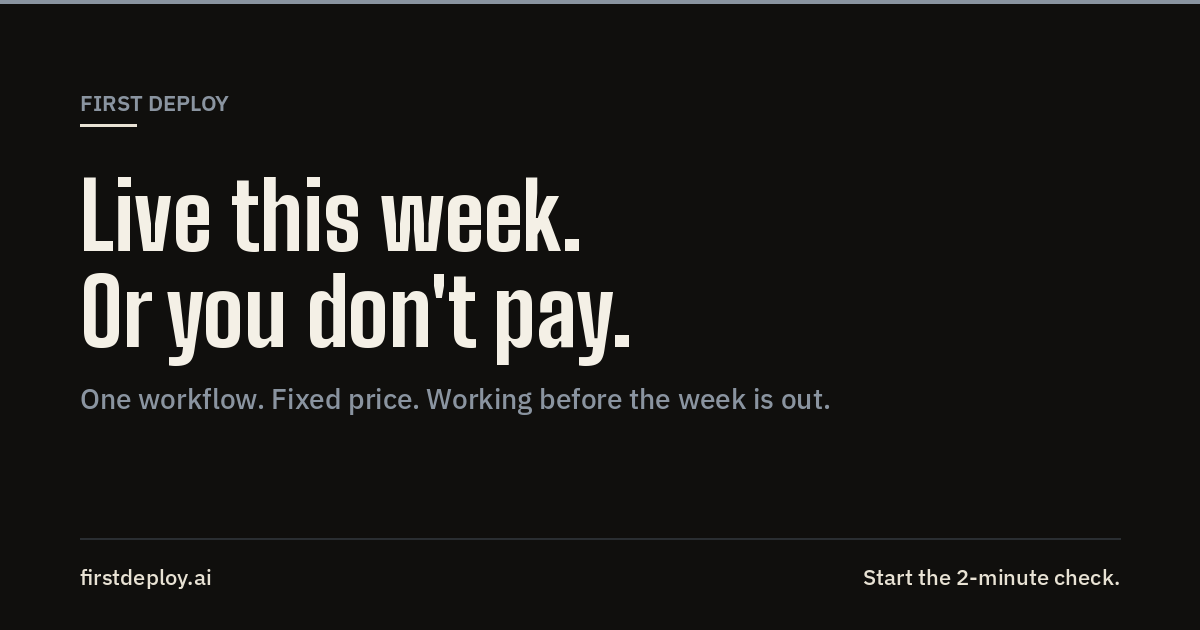
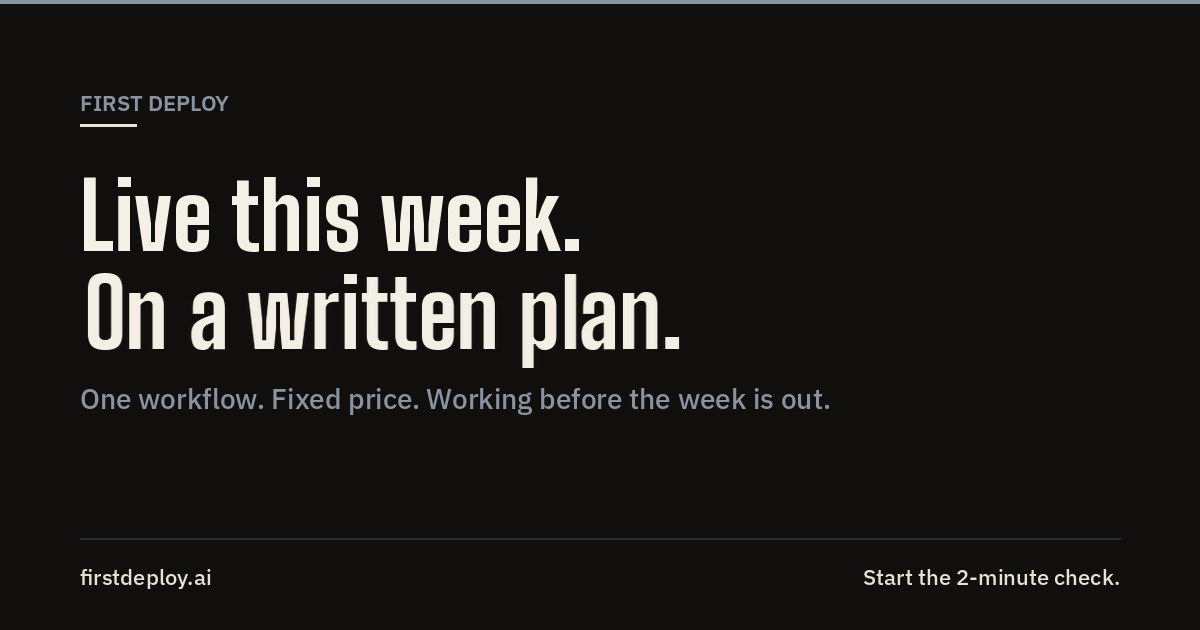
Brand: drop guarantee / risk-reversal copy; state process, timeline and 50% terms (#15)

Changed region(s): [[0.0617, 0.4222, 0.5858, 0.6032]]

diff --git a/index.html b/index.html
@@ -3,22 +3,22 @@
 <head>
 <meta charset="utf-8">
 <meta name="viewport" content="width=device-width, initial-scale=1">
-<title>First Deploy — Factory for after-hours AI. Live this week or you don't pay.</title>
+<title>First Deploy — Factory for after-hours AI. Live this week on a written plan.</title>
 <meta name="description" content="AgentHive Inc's First Deploy: after-hours desk + live apps for operators. Intake → ship → leave it running. Setup $1,500. Then $250/mo. Braid, HillMirror, JobProof, GuyThread, Consult on the same floor.">
 <meta name="theme-color" content="#020617">
 <link rel="canonical" href="https://firstdeploy.ai/">
 <link rel="icon" href="/favicon.svg" type="image/svg+xml">
 <meta property="og:type" content="website">
 <meta property="og:site_name" content="First Deploy">
-<meta property="og:title" content="First Deploy — Live this week. Or you don't pay.">
+<meta property="og:title" content="First Deploy — Live this week. On a written plan.">
 <meta property="og:description" content="After-hours desk + live apps for operators. Factory floor by AgentHive Inc. Setup $1,500. Then $250/mo.">
 <meta property="og:url" content="https://firstdeploy.ai/">
 <meta property="og:image" content="https://firstdeploy.ai/og.png?v=factory-20260922">
 <meta property="og:image:width" content="1200">
 <meta property="og:image:height" content="630">
-<meta property="og:image:alt" content="First Deploy — Live this week. Or you don't pay.">
+<meta property="og:image:alt" content="First Deploy — Live this week. On a written plan.">
 <meta name="twitter:card" content="summary_large_image">
-<meta name="twitter:title" content="First Deploy — Live this week. Or you don't pay.">
+<meta name="twitter:title" content="First Deploy — Live this week. On a written plan.">
 <meta name="twitter:description" content="After-hours desk + live apps for operators. Setup $1,500. Then $250/mo.">
 <meta name="twitter:image" content="https://firstdeploy.ai/og.png?v=factory-20260922">
 <link rel="preconnect" href="https://fonts.googleapis.com">
@@ -56,7 +56,7 @@
         <a class="btn btn-primary" href="/go/start?from=home-hero">Get started — $1,500 setup</a>
         <a class="btn btn-ghost" href="https://calendly.com/coltsinsider/30min">Book a free 30-min call</a>
       </div>
-      <p class="fine">Setup <strong style="color:#f8fafc">$1,500</strong> — live this week or you don't pay. Then <strong style="color:#f8fafc">$250/mo</strong>. <a href="/pricing">See pricing</a> · Call <a href="tel:+13203356186">+1 320-335-6186</a>.</p>
+      <p class="fine">Setup <strong style="color:#f8fafc">$1,500</strong> — live this week on a written plan. Then <strong style="color:#f8fafc">$250/mo</strong>. <a href="/pricing">See pricing</a> · Call <a href="tel:+13203356186">+1 320-335-6186</a>.</p>
     </div>
     <aside class="funnel" style="background-image:linear-gradient(160deg,rgba(2,6,23,.75),rgba(2,6,23,.92)),url(/assets/factory-hero.jpg);background-size:cover;background-position:center" aria-label="Intake funnel">
       <svg viewBox="0 0 480 320" fill="none" xmlns="http://www.w3.org/2000/svg" aria-hidden="true">
@@ -91,7 +91,7 @@
   <div class="wrap">
     <div class="stats" role="group" aria-label="Proof strip">
       <div class="stat"><b>48–72h</b><span>Typical time leak → live</span></div>
-      <div class="stat"><b>$1,500</b><span>Setup. Or you don't pay.</span></div>
+      <div class="stat"><b>$1,500</b><span>Setup. 50% to start.</span></div>
       <div class="stat"><b>$250/mo</b><span>Desk + apps stay on</span></div>
     </div>
   </div>
@@ -175,7 +175,7 @@
         <p>Other shops sell slides. We embed working AI in real ops, then leave it running. The hive is the system: operators, apps, after-hours desk, consult lane — one company.</p>
         <ul class="moat-list">
           <li>Field-first: dirt, plants, shops — not SaaS theater.</li>
-          <li>Live this week or you don't pay the setup.</li>
+          <li>Live this week on the same written plan we run for active client builds.</li>
           <li>Apps on the line (Braid, HillMirror, JobProof, GuyThread) prove the factory is real.</li>
         </ul>
         <p class="fine" style="margin-top:1.25rem"><a href="https://agenthiveinc.com/">AgentHive Inc →</a></p>
@@ -222,7 +222,7 @@
       <div class="price featured">
         <p class="tag" style="color:var(--neon);font-size:.68rem;letter-spacing:.18em;text-transform:uppercase">Setup</p>
         <p class="amt">$1,500</p>
-        <p class="lbl">One leak live this week or you don't pay.</p>
+        <p class="lbl">One leak live this week on a written plan.</p>
         <a class="btn btn-primary" href="/go/start?from=home-price">Get started</a>
       </div>
       <div class="price">
@@ -243,7 +243,7 @@
     <div class="cta-band">
       <p class="eyebrow" style="justify-content:center">Intake open</p>
       <h2>Feed the funnel.</h2>
-      <p>Two minutes. Tell us the leak. If we can light it this week, you get the desk. If we can't, you don't pay setup.</p>
+      <p>Two minutes. Tell us the leak. We scope it, light it this week on a written plan, and leave it running.</p>
       <div class="hero-actions" style="justify-content:center">
         <a class="btn btn-primary" href="/go/start?from=home-check">Get started — $1,500 setup</a>
         <a class="btn btn-ghost" href="https://calendly.com/coltsinsider/30min">Book a free 30-min call</a>

diff --git a/pricing.html b/pricing.html
@@ -4,21 +4,21 @@
 <meta charset="utf-8">
 <meta name="viewport" content="width=device-width, initial-scale=1">
 <title>First Deploy pricing — $1,500 setup, then $250/mo</title>
-<meta name="description" content="First Deploy pricing: $1,500 one-time setup (live this week or you don't pay), then $250/month per company for the after-hours desk and apps.">
+<meta name="description" content="First Deploy pricing: $1,500 one-time setup (live this week on a written plan), then $250/month per company for the after-hours desk and apps.">
 <meta name="theme-color" content="#020617">
 <link rel="canonical" href="https://firstdeploy.ai/pricing">
 <link rel="icon" href="/favicon.svg" type="image/svg+xml">
 <meta property="og:type" content="website">
 <meta property="og:site_name" content="First Deploy">
-<meta property="og:title" content="First Deploy — Live this week. Or you don't pay.">
+<meta property="og:title" content="First Deploy — Live this week. On a written plan.">
 <meta property="og:description" content="After-hours desk + live apps for operators. Factory floor by AgentHive Inc. Setup $1,500. Then $250/mo.">
 <meta property="og:url" content="https://firstdeploy.ai/pricing">
 <meta property="og:image" content="https://firstdeploy.ai/og.png?v=factory-20260922">
 <meta property="og:image:width" content="1200">
 <meta property="og:image:height" content="630">
-<meta property="og:image:alt" content="First Deploy — Live this week. Or you don't pay.">
+<meta property="og:image:alt" content="First Deploy — Live this week. On a written plan.">
 <meta name="twitter:card" content="summary_large_image">
-<meta name="twitter:title" content="First Deploy — Live this week. Or you don't pay.">
+<meta name="twitter:title" content="First Deploy — Live this week. On a written plan.">
 <meta name="twitter:description" content="After-hours desk + live apps for operators. Setup $1,500. Then $250/mo.">
 <meta name="twitter:image" content="https://firstdeploy.ai/og.png?v=factory-20260922">
 <link rel="preconnect" href="https://fonts.googleapis.com">
@@ -51,13 +51,13 @@
     <div class="section-head">
       <p class="eyebrow">Pricing</p>
       <h1>$1,500 setup. Then $250/mo.</h1>
-      <p>One leak live this week or you don't pay setup. Then the desk and apps stay on for $250 a month per company. Cancel any time and the line goes dark.</p>
+      <p>One leak live this week on a written plan. Setup terms: 50% to start, the balance at completion or split over two monthly payments. Then the desk and apps stay on for $250 a month per company. Cancel any time and the line goes dark.</p>
     </div>
     <div class="price-grid">
       <div class="price featured">
         <p class="tag" style="color:var(--neon);font-size:.68rem;letter-spacing:.18em;text-transform:uppercase">Setup · one time</p>
         <p class="amt">$1,500</p>
-        <p class="lbl">Charged on your first invoice. One leak live this week or you don't pay.</p>
+        <p class="lbl">50% to start, the balance at completion or split over two monthly payments.</p>
       </div>
       <div class="price featured">
         <p class="tag" style="color:var(--neon);font-size:.68rem;letter-spacing:.18em;text-transform:uppercase">Desk · monthly</p>

diff --git a/firstdeploy/index.html b/firstdeploy/index.html
@@ -21,12 +21,12 @@
 <meta property="og:image:type" content="image/png">
 <meta property="og:image:width" content="1200">
 <meta property="og:image:height" content="630">
-<meta property="og:image:alt" content="First Deploy — Live this week. Or you don't pay.">
+<meta property="og:image:alt" content="First Deploy — Live this week. On a written plan.">
 <meta name="twitter:card" content="summary_large_image">
 <meta name="twitter:title" content="First Deploy — The after-hours desk and live apps for field operators.">
 <meta name="twitter:description" content="You run dirt, plants, or a shop. An after-hours voice line, the live apps your people open, one operator. Setup $1,500. Then $250/month.">
 <meta name="twitter:image" content="https://firstdeploy.ai/og.png?v=20260915">
-<meta name="twitter:image:alt" content="First Deploy — Live this week. Or you don't pay.">
+<meta name="twitter:image:alt" content="First Deploy — Live this week. On a written plan.">
 <link rel="preconnect" href="https://fonts.googleapis.com">
 <link rel="preconnect" href="https://fonts.gstatic.com" crossorigin>
 <link href="https://fonts.googleapis.com/css2?family=Big+Shoulders+Display:wght@700;800&family=IBM+Plex+Sans:wght@400;500;600&display=swap" rel="stylesheet">
@@ -127,7 +127,7 @@
 
       <div class="price">
         <p class="eyebrow">Price</p>
-        <p><strong>Setup: $1,500.</strong> Live this week or you don’t pay.</p>
+        <p><strong>Setup: $1,500.</strong> Live this week on a written plan. 50% to start, the balance at completion or split over two monthly payments.</p>
         <p><strong>Then $250/month</strong> per company to keep the desk and the apps on. Turn it off and the line goes dark. That’s the point.</p>
       </div>
 
@@ -142,7 +142,7 @@
   <section class="leaks" id="check">
     <div class="page">
       <h2 class="check-title">2-minute check</h2>
-      <p class="lead">Pick the leak. Setup is $1,500 — live this week or you don’t pay.</p>
+      <p class="lead">Pick the leak. Setup is $1,500 — live this week on a written plan.</p>
       <div class="leak-grid">
         <a class="leak" href="https://firstdeploy-quiz.netlify.app">
           <span class="rule" aria-hidden="true"></span>
@@ -166,7 +166,7 @@
   <section class="band" id="how">
     <div class="page">
       <h2>One operator. One workflow. Live in 48–72 hours.</h2>
-      <p class="lead">Done-for-you embed. We already did this inside a live operation. You keep the workflow. If it isn’t live this week, you don’t pay.</p>
+      <p class="lead">Done-for-you embed. We already did this inside a live operation. You keep the workflow. Every build runs on a written plan, the same process as our active client builds.</p>
       <ol class="how">
         <li>
           <span class="n">01</span>

diff --git a/thanks.html b/thanks.html
@@ -11,15 +11,15 @@
 <link rel="icon" href="/favicon.svg" type="image/svg+xml">
 <meta property="og:type" content="website">
 <meta property="og:site_name" content="First Deploy">
-<meta property="og:title" content="First Deploy — Live this week. Or you don't pay.">
+<meta property="og:title" content="First Deploy — Live this week. On a written plan.">
 <meta property="og:description" content="After-hours desk + live apps for operators. Factory floor by AgentHive Inc. Setup $1,500. Then $250/mo.">
 <meta property="og:url" content="https://firstdeploy.ai/thanks">
 <meta property="og:image" content="https://firstdeploy.ai/og.png?v=factory-20260922">
 <meta property="og:image:width" content="1200">
 <meta property="og:image:height" content="630">
-<meta property="og:image:alt" content="First Deploy — Live this week. Or you don't pay.">
+<meta property="og:image:alt" content="First Deploy — Live this week. On a written plan.">
 <meta name="twitter:card" content="summary_large_image">
-<meta name="twitter:title" content="First Deploy — Live this week. Or you don't pay.">
+<meta name="twitter:title" content="First Deploy — Live this week. On a written plan.">
 <meta name="twitter:description" content="After-hours desk + live apps for operators. Setup $1,500. Then $250/mo.">
 <meta name="twitter:image" content="https://firstdeploy.ai/og.png?v=factory-20260922">
 <link rel="preconnect" href="https://fonts.googleapis.com">

diff --git a/about.html b/about.html
@@ -78,7 +78,7 @@
     <section class="legal" id="about">
       <p class="eyebrow">About</p>
       <h1>First Deploy</h1>
-      <p>First Deploy is the after-hours desk and live apps for field operators, built by AgentHive Inc. You get a voice line that books work after hours, the live apps your people open, and one operator. Setup is $1,500 — live this week or you do not pay — then $250/month.</p>
+      <p>First Deploy is the after-hours desk and live apps for field operators, built by AgentHive Inc. You get a voice line that books work after hours, the live apps your people open, and one operator. Setup is $1,500 — live this week on a written plan — then $250/month.</p>
       <p>AgentHive Inc is a Palm Coast, Florida shop. Daniel Graham embeds working AI in real operations — prompts, stack, and hard code — then leaves it running. First Deploy is the product. Consulting is how you buy time in the room. One operator who did this inside a live field operation. Never a pile of single-feature toys.</p>
 
       <h2>Contact</h2>

diff --git a/firstdeploy/terms.html b/firstdeploy/terms.html
@@ -58,7 +58,7 @@
       <p>These terms cover work sold from firstdeploy.ai by AgentHive Inc (Palm Coast, Florida). A signed scope or Stripe checkout wins if it conflicts with this page.</p>
 
       <h2>First Deploy (the product)</h2>
-      <p>Setup is $1,500. The agreed leak live this week or you do not pay that setup. Then $250 per month per company to keep the desk and the apps on. Turn the month off and the line goes dark.</p>
+      <p>Setup is $1,500. Terms: 50% to start, the balance at completion or split over two monthly payments. The agreed leak goes live this week on a written plan. Projects scoped at 90 days are billed half upfront and half at completion. Then $250 per month per company to keep the desk and the apps on. Turn the month off and the line goes dark.</p>
 
       <h2>Consult time</h2>
       <p>The door is a free 30-minute qualifier. Paid time is $75 / 30 minutes, $150 / hour, or a 10-hour pack at $1,250 with $625 due up front. The free 30 is to see if there is paid work. It is not a deliverable sprint.</p>

diff --git a/terms.html b/terms.html
@@ -58,7 +58,7 @@
       <p>These terms cover work sold from firstdeploy.ai by AgentHive Inc (Palm Coast, Florida). A signed scope or Stripe checkout wins if it conflicts with this page.</p>
 
       <h2>First Deploy (the product)</h2>
-      <p>Setup is $1,500. One agreed leak live this week or you do not pay that setup. Then $250 per month per company to keep the desk and the apps on. Turn the month off and the line goes dark.</p>
+      <p>Setup is $1,500. Terms: 50% to start, the balance at completion or split over two monthly payments. The agreed leak goes live this week on a written plan. Projects scoped at 90 days are billed half upfront and half at completion. Then $250 per month per company to keep the desk and the apps on. Turn the month off and the line goes dark.</p>
 
       <h2>Consult time</h2>
       <p>The door is a free 30-minute qualifier. Paid time is $75 / 30 minutes, $150 / hour, or a 10-hour pack at $1,250 with $625 due up front. The free 30 is to see if there is paid work. It is not a deliverable sprint.</p>

diff --git a/firstdeploy/about.html b/firstdeploy/about.html
@@ -78,7 +78,7 @@
     <section class="legal" id="about">
       <p class="eyebrow">About</p>
       <h1>First Deploy</h1>
-      <p>First Deploy is the after-hours desk and live apps for field operators, built by AgentHive Inc. You get a voice line that books work after hours, the live apps your people open, and one operator. Setup is $1,500 — live this week or you do not pay — then $250/month.</p>
+      <p>First Deploy is the after-hours desk and live apps for field operators, built by AgentHive Inc. You get a voice line that books work after hours, the live apps your people open, and one operator. Setup is $1,500 — live this week on a written plan — then $250/month.</p>
       <p>AgentHive Inc is a Palm Coast, Florida shop. Daniel Graham embeds working AI in real operations — prompts, stack, and hard code — then leaves it running. First Deploy is the product. Consulting is how you buy time in the room. One operator who did this inside a live field operation.</p>
 
       <h2>Contact</h2>

diff --git a/firstdeploy/thanks.html b/firstdeploy/thanks.html
@@ -42,7 +42,7 @@
     <section class="hero" id="thanks">
       <p class="eyebrow">Thanks</p>
       <h1>We have it.</h1>
-      <p class="sub">If you booked time, the calendar invite is next. If you called, we will call back. The offer stays the same: setup $1,500 — live this week or you don’t pay — then $250/month.</p>
+      <p class="sub">If you booked time, the calendar invite is next. If you called, we will call back. The offer stays the same: setup $1,500 (50% to start, the balance at completion or split over two monthly payments), then $250/month.</p>
       <div class="cta-block">
         <a class="btn" href="/">Back to First Deploy</a>
         <a class="btn-ghost" href="tel:+13203356186">+1 320-335-6186</a>

diff --git a/README.md b/README.md
@@ -2,7 +2,7 @@
 
 Marketing site for https://firstdeploy.ai
 
-**Clean publish tree:** [`firstdeploy/`](firstdeploy/). One offer page. Setup $1,500 (live this week or they don’t pay), then $250/month. Consult on `/consult`. Sister sites only on `/hive`.
+**Clean publish tree:** [`firstdeploy/`](firstdeploy/). One offer page. Setup $1,500 (live this week on a written plan), then $250/month. Consult on `/consult`. Sister sites only on `/hive`.
 
 ```bash
 node firstdeploy/scripts/check-clean.mjs

diff --git a/firstdeploy/README.md b/firstdeploy/README.md
@@ -8,7 +8,7 @@ Netlify site `first-deploy-ai` (id `59a673be-0880-43e0-a443-756e22cbf4ec`).
 
 After-hours voice + live apps + one operator.
 
-- Setup **$1,500** — live this week or they don’t pay
+- Setup **$1,500** — live this week on a written plan
 - Then **$250/month**
 - Consult lives on `/consult`
 - Sister sites listed once on `/hive`
